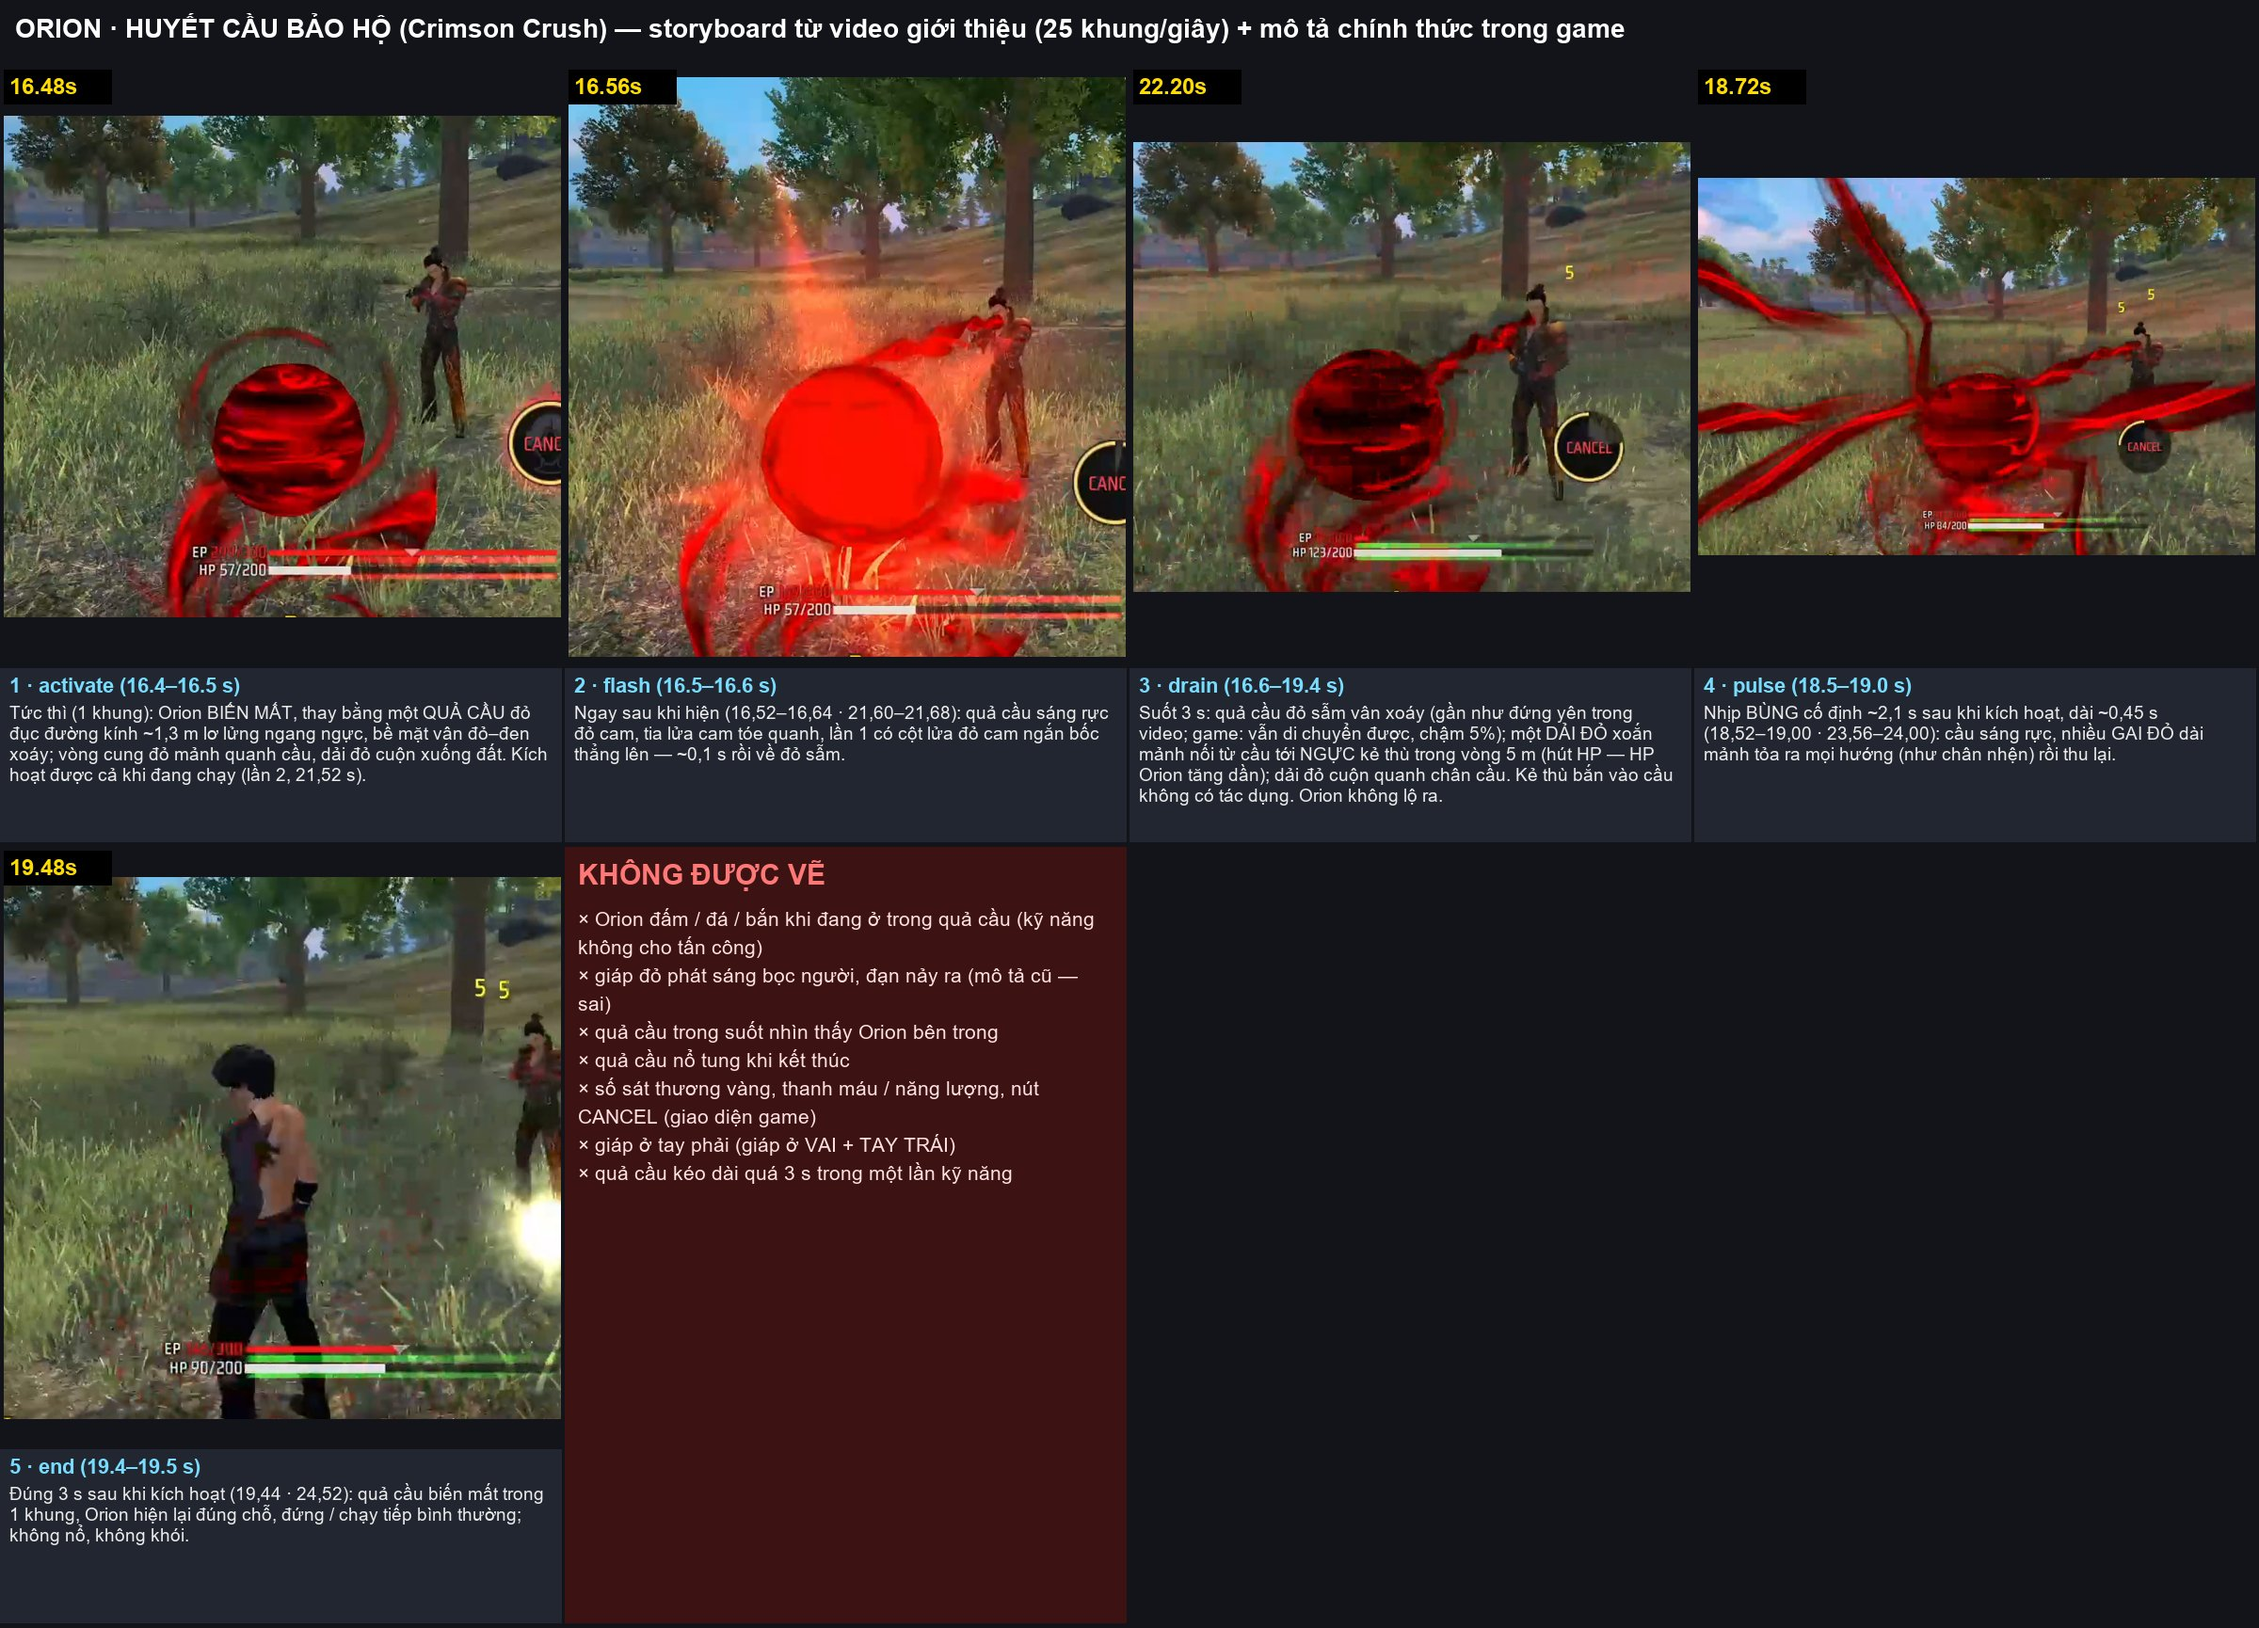
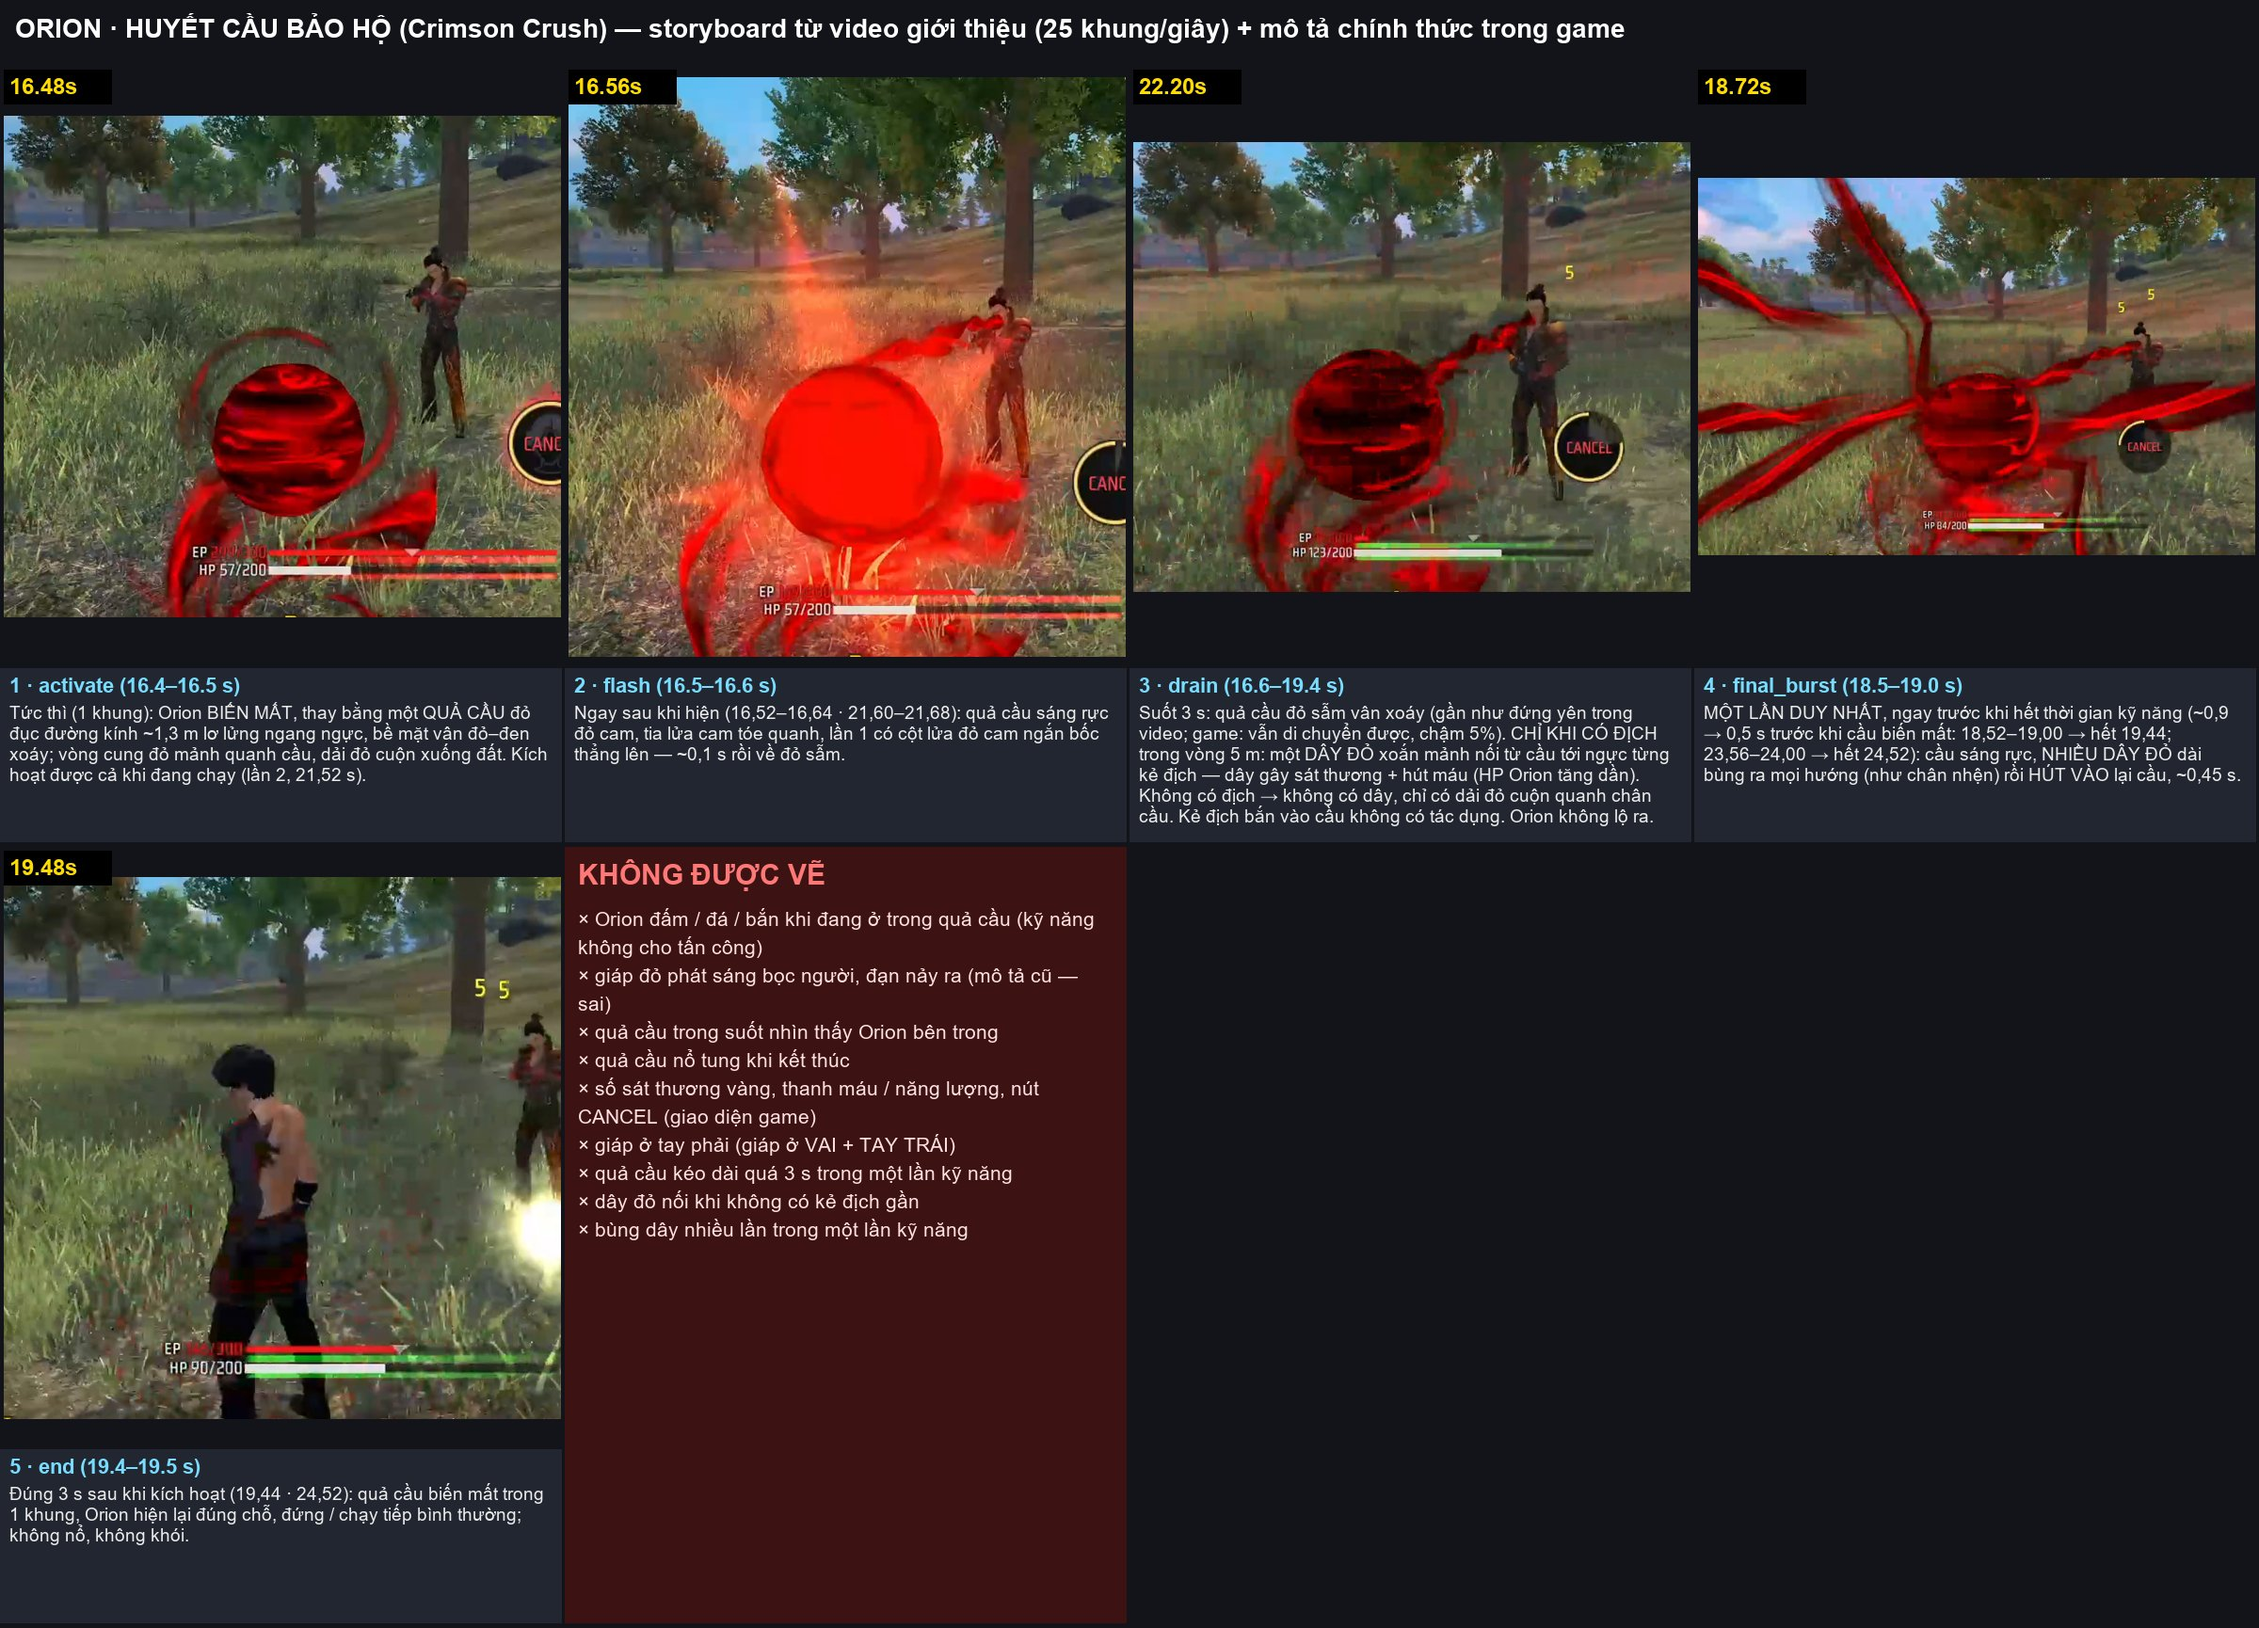
Hồ sơ Orion theo người dùng: dây đỏ chỉ khi có địch (gây sát thương + hút máu); bùng dây MỘT lần ngay trước khi hết kỹ năng (final_burst)

Changed region(s): [[0.5, 0.4058, 0.9688, 0.4994], [0.2812, 0.7179, 0.4062, 0.7803]]

diff --git a/tests/test_skill_dossier.py b/tests/test_skill_dossier.py
@@ -106,7 +106,7 @@ class OrionAndBuildToolTests(unittest.TestCase):
         self.assertIsNotNone(d)
         self.assertEqual(d["skill_vi"], "Huyết Cầu Bảo Hộ")
         ids = [p["id"] for p in d["phases"]]
-        self.assertEqual(ids, ["activate", "flash", "drain", "pulse", "end"])
+        self.assertEqual(ids, ["activate", "flash", "drain", "final_burst", "end"])
         for p in d["phases"]:
             self.assertTrue(os.path.exists(os.path.join(d["_dir"], p["frame"])), p["frame"])
         self.assertIn("3 s", d["mechanism_vi"])
